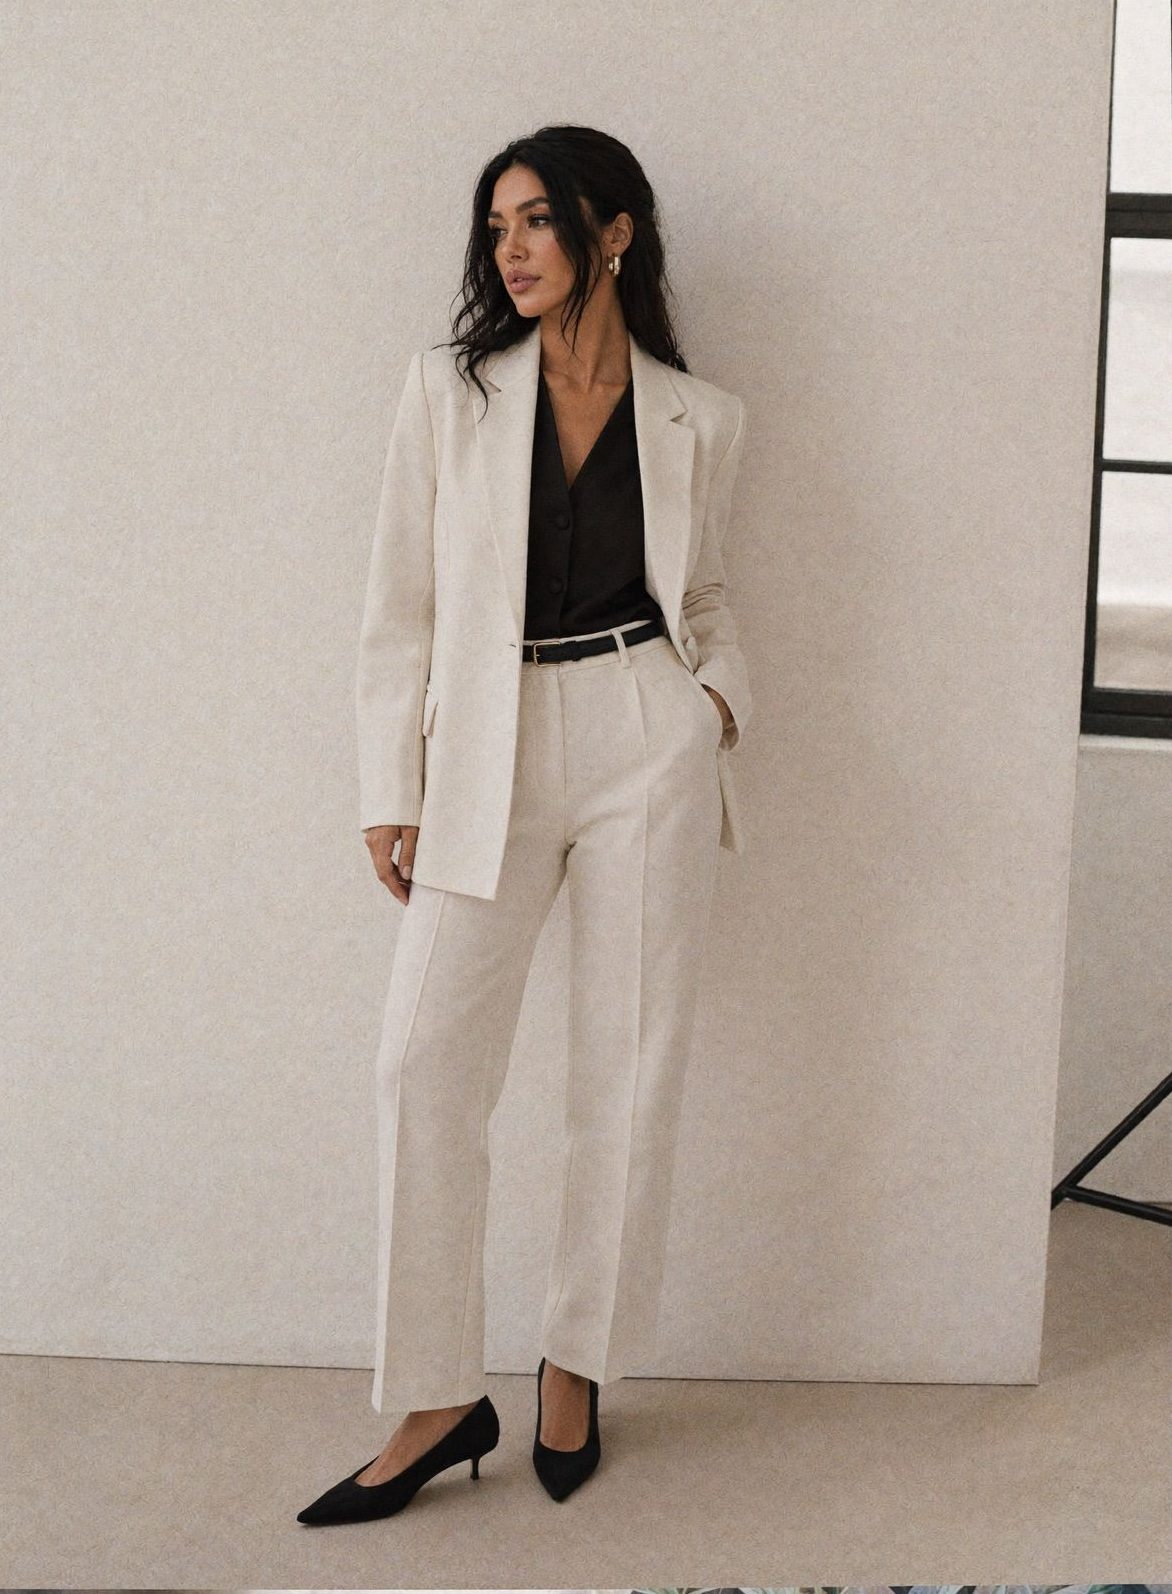
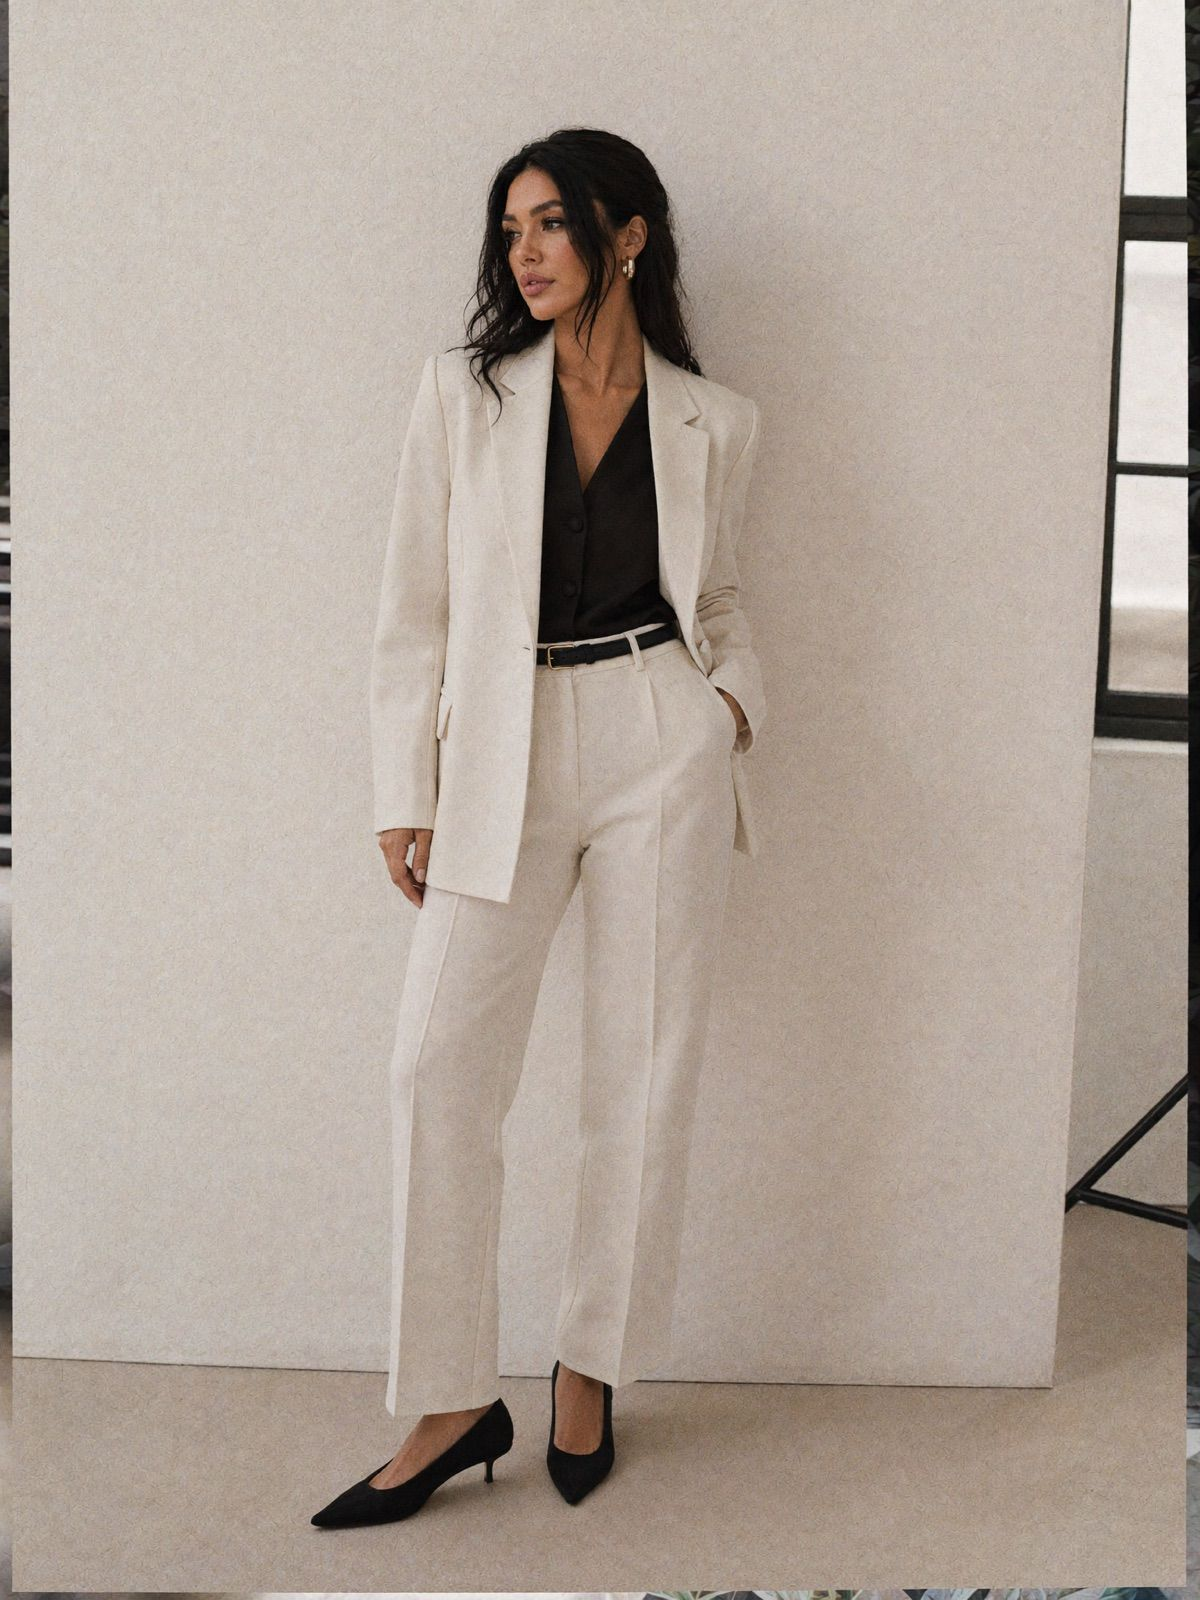
fix(white): the sets block takes a clean editorial frame
The atelier photo carried a dark studio window at its right that read
as a grubby edge once the block ran full width, and cropping couldn't
remove it cleanly under object-cover. Swapped for a clean editorial
frame — a put-together look against an even ivory wall — so the section
meets both screen edges without a blemish.

diff --git a/apps/web/app/[locale]/white/products.ts b/apps/web/app/[locale]/white/products.ts
@@ -76,7 +76,7 @@ export const WHITE_PRODUCTS: WhiteProduct[] = [
 // REINASLEO Soul), used for the hero, the atelier/lookbook block and as
 // alternate PDP gallery views. Same-origin, so CSP img-src 'self' covers them.
 export const WHITE_HERO_IMAGE = '/images/white/hero.jpg';
-export const WHITE_ATELIER_IMAGE = '/images/white/atelier.jpg';
+export const WHITE_ATELIER_IMAGE = '/images/white/editorial-1.jpg';
 export const WHITE_EDITORIAL = ['/images/white/editorial-1.jpg', '/images/white/editorial-2.jpg', '/images/white/editorial-3.jpg'];
 
 export function findWhiteProduct(key?: string | number | null): WhiteProduct | undefined {
